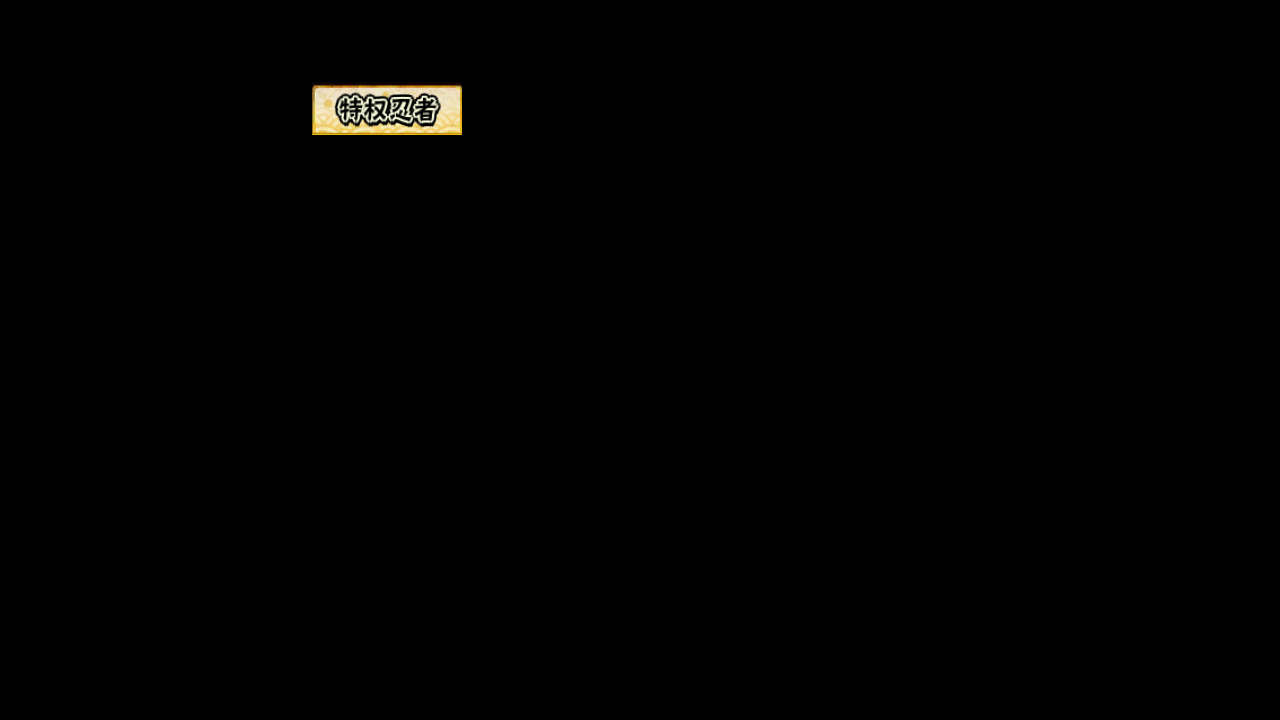
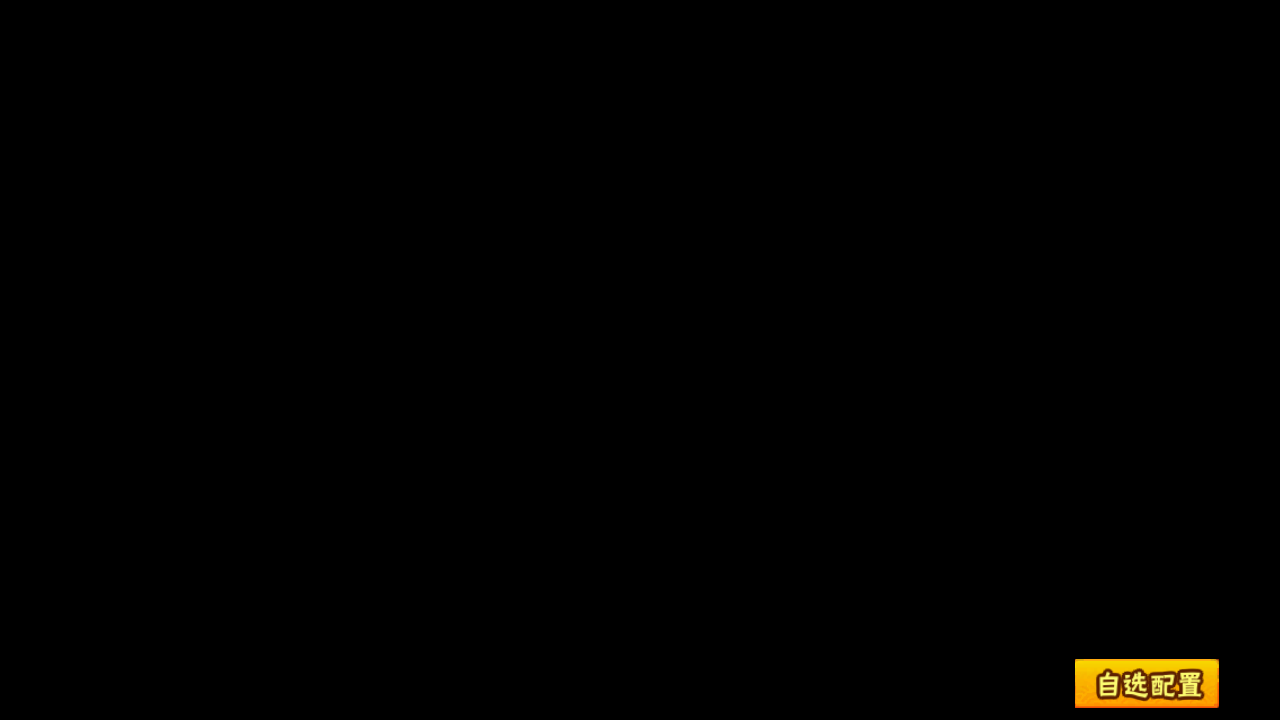
feat(privilege_store): 更新特权忍者素材

Changed region(s): [[0.2188, 0.0917, 0.375, 0.2139], [0.8125, 0.9167, 0.9688, 1.0]]

diff --git a/tasks/store_purchase/assets/assets_store_purchase_privilege_store_ui.py b/tasks/store_purchase/assets/assets_store_purchase_privilege_store_ui.py
@@ -5,13 +5,22 @@ from module.base.button import Button, ButtonWrapper
 
 PRIVILEGE_CHARACTER_CHECK = ButtonWrapper(
     name='PRIVILEGE_CHARACTER_CHECK',
-    cn=Button(
-        file='./assets/cn/store_purchase/privilege_store/ui/PRIVILEGE_CHARACTER_CHECK.png',
-        area=(312, 82, 462, 135),
-        search=(292, 62, 482, 155),
-        color=(166, 151, 108),
-        button=(312, 82, 462, 135),
-    ),
+    cn=[
+        Button(
+            file='./assets/cn/store_purchase/privilege_store/ui/PRIVILEGE_CHARACTER_CHECK.png',
+            area=(1075, 659, 1219, 708),
+            search=(1055, 639, 1239, 720),
+            color=(212, 153, 20),
+            button=(1075, 659, 1219, 708),
+        ),
+        Button(
+            file='./assets/cn/store_purchase/privilege_store/ui/PRIVILEGE_CHARACTER_CHECK.2.png',
+            area=(312, 82, 462, 135),
+            search=(292, 62, 482, 155),
+            color=(166, 151, 108),
+            button=(312, 82, 462, 135),
+        ),
+    ],
     en=None,
 )
 PRIVILEGE_CHARACTER_CLICK = ButtonWrapper(
@@ -71,13 +80,22 @@ PRIVILEGE_PURCHASE_CLICK = ButtonWrapper(
 )
 PRIVILEGE_SCORE_CHECK = ButtonWrapper(
     name='PRIVILEGE_SCORE_CHECK',
-    cn=Button(
-        file='./assets/cn/store_purchase/privilege_store/ui/PRIVILEGE_SCORE_CHECK.png',
-        area=(621, 84, 758, 134),
-        search=(601, 64, 778, 154),
-        color=(169, 156, 115),
-        button=(621, 84, 758, 134),
-    ),
+    cn=[
+        Button(
+            file='./assets/cn/store_purchase/privilege_store/ui/PRIVILEGE_SCORE_CHECK.png',
+            area=(942, 672, 1057, 695),
+            search=(922, 652, 1077, 715),
+            color=(109, 90, 9),
+            button=(942, 672, 1057, 695),
+        ),
+        Button(
+            file='./assets/cn/store_purchase/privilege_store/ui/PRIVILEGE_SCORE_CHECK.2.png',
+            area=(621, 84, 758, 134),
+            search=(601, 64, 778, 154),
+            color=(169, 156, 115),
+            button=(621, 84, 758, 134),
+        ),
+    ],
     en=None,
 )
 PRIVILEGE_SCORE_CLICK = ButtonWrapper(

diff --git a/tasks/store_purchase/privilege_store/switch.py b/tasks/store_purchase/privilege_store/switch.py
@@ -8,8 +8,8 @@ class PrivilegeStoreSwitch(Switch):
 
     def add_state(self, state, check_button, click_button=None):
         # Load search
-        if check_button is not None:
-            check_button.load_search(self.SEARCH_BUTTON.area)
+        #if check_button is not None:
+        #    check_button.load_search(self.SEARCH_BUTTON.area)
         if click_button is not None:
             click_button.load_search(self.SEARCH_BUTTON.area)
         return super().add_state(state, check_button, click_button)

diff --git a/tasks/activity/wei_shou_xun_zong/wei_shou_xun_zong.py b/tasks/activity/wei_shou_xun_zong/wei_shou_xun_zong.py
@@ -4,8 +4,10 @@ from tasks.activity.assets.assets_activity_wei_shou_xun_zong_claim import CLAIMA
 from tasks.base.page import page_activity
 from tasks.activity.draglist import ACTIVITY_TAB_LIST
 from tasks.base.ui import UI
+from module.logger import logger
 class WeiShouXunZong(UI):
     def run(self):
+        logger.hr("尾兽寻踪",level=1)
         self.device.click_record_clear()
         self.ui_ensure(page_activity)
         ACTIVITY_TAB_LIST.search_rows(main=self,keyword=WeiShouXunZongKeyword)

diff --git a/tasks/activity/ding_ci_kao_rou/ding_ci_kao_rou.py b/tasks/activity/ding_ci_kao_rou/ding_ci_kao_rou.py
@@ -11,6 +11,7 @@ from tasks.base.ui import UI
 
 class DingCiKaoRou(UI):
     def handle_ding_ci_kao_rou(self):
+        logger.hr("丁次烤肉",level=1)
         self.device.click_record_clear()
         self.ui_ensure(page_activity)
         ACTIVITY_TAB_LIST.search_rows(main=self,keyword=DingCiKaoRouKeyword)
